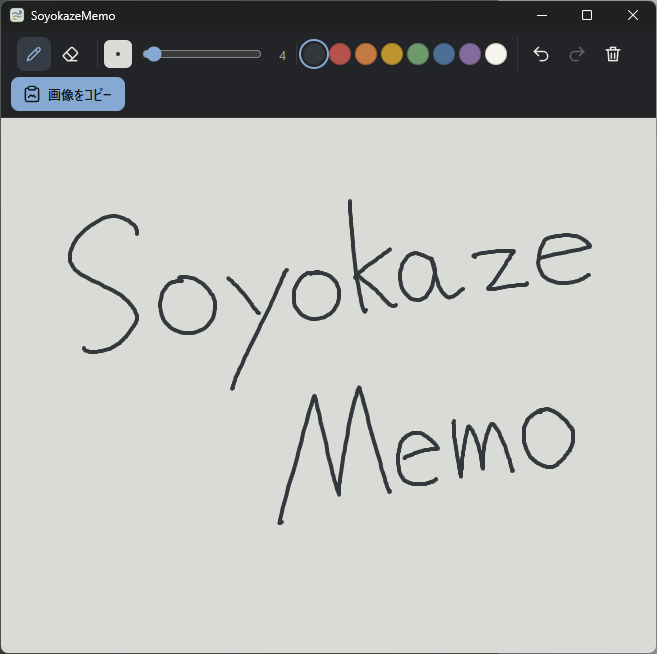
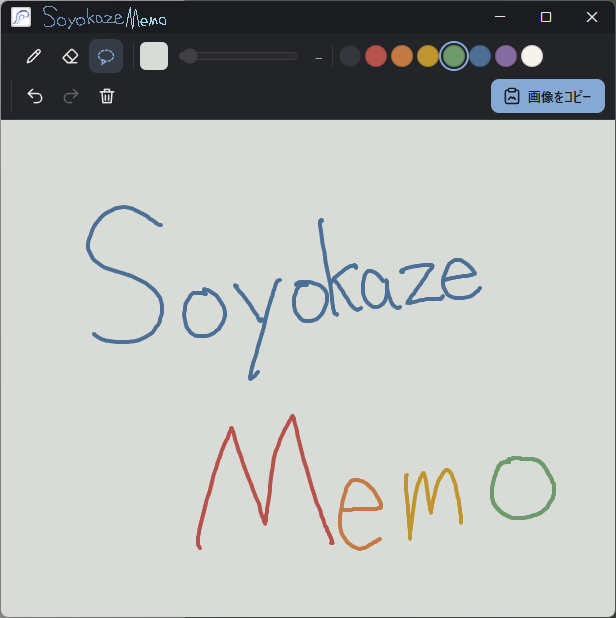
SoyokazeMemo の画像を v0.2.0 のものに差し替え、ダウンロードボタンを追加
- images/SoyokazeMemoApp.png を最新版（v0.2.0：タイトルバーのロゴ・投げ縄ツール・色パレット）の
  スクリーンショットに差し替え（616x618）
- カードの説明の下に、Play と同じ見た目の「Download」ボタンを追加
  - GitHub の最新リリースのページ（releases/latest）を新しいタブで開く。
    SoyokazeMemo の README のインストール手順と同じリンクで、新しい版を出してもそのまま使える
  - インストーラーのファイル名には版が入る（SoyokazeMemo_0.2.0_x64-setup.exe）ので、
    ファイルへの直リンクにはしていない

Claude-Session: https://claude.ai/code/session_011RS1xADytYBuBosvbJb3Tx

diff --git a/index.html b/index.html
@@ -488,6 +488,8 @@
             font-weight: bold;
         }
         .media-item .credits { overflow-wrap: anywhere; }
+        /* アプリのダウンロードボタン（Play と同じ見た目）。GitHub の最新リリースのページを新しいタブで開く */
+        .media-item .app-download { width: fit-content; margin-top: 14px; }
 
         /* 最小化したカードを入れるトレイ（JS で各 .media-grid のすぐ下に作る）。
            カードはバーだけになってここに移り、何個あっても折り返して並ぶ */
@@ -1114,6 +1116,7 @@
                     <div class="window-body">
                         <img src="images/SoyokazeMemoApp.png" alt="SoyokazeMemo" onclick="openModal(this.src, 'SoyokazeMemo')">
                         <div class="caption"><strong class="font-digital">SoyokazeMemo</strong><br>一時的な手書きメモ　コピペなどするときに</div>
+                        <a href="https://github.com/ThunFasky/SoyokazeMemo/releases/latest" class="btn-link btn-primary app-download" target="_blank" rel="noopener noreferrer">Download</a>
                     </div>
                 </div>
             </div>
